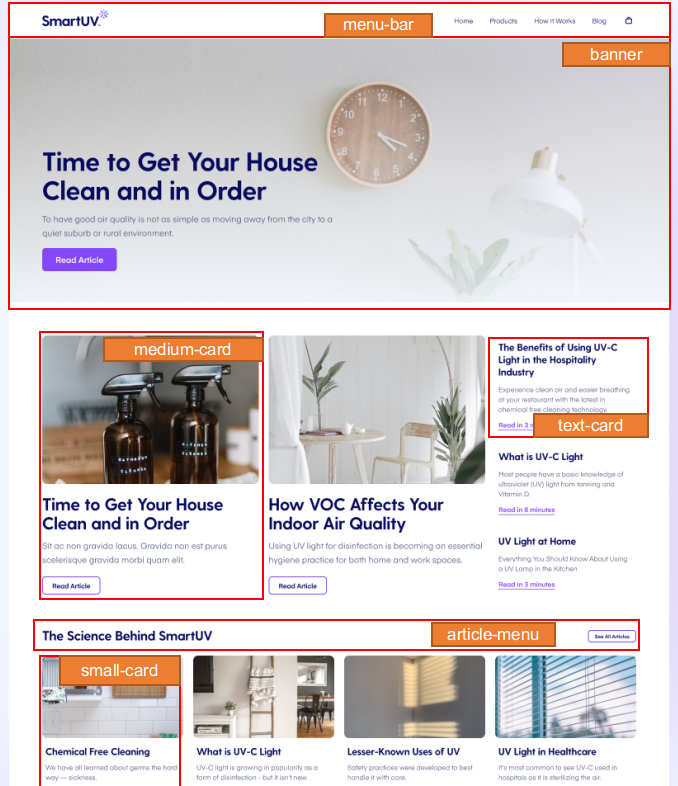
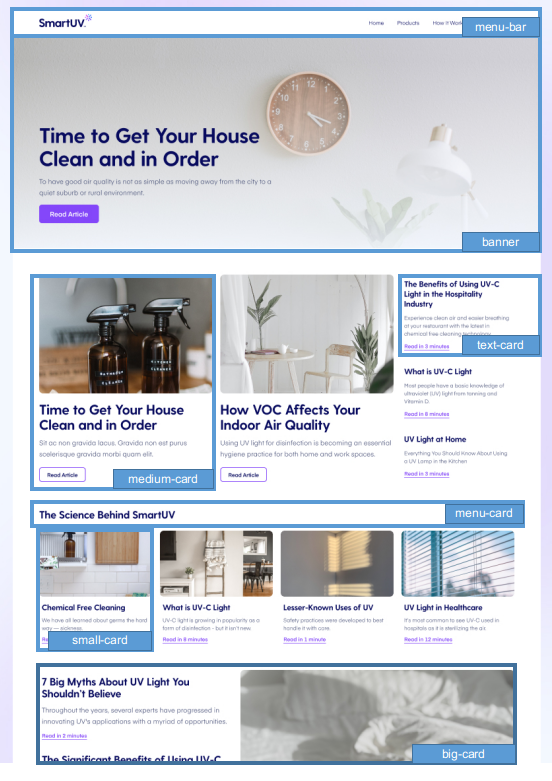
feat: add components

diff --git a/src/app/app.module.ts b/src/app/app.module.ts
@@ -3,10 +3,24 @@ import { BrowserModule } from '@angular/platform-browser';
 
 import { AppRoutingModule } from './app-routing.module';
 import { AppComponent } from './app.component';
+import { MenuBarComponent } from './components/menu-bar/menu-bar.component';
+import { BannerComponent } from './components/banner/banner.component';
+import { MediumCardComponent } from './components/medium-card/medium-card.component';
+import { TextCardComponent } from './components/text-card/text-card.component';
+import { SmallCardComponent } from './components/small-card/small-card.component';
+import { BigCardComponent } from './components/big-card/big-card.component';
+import { MenuCardComponent } from './components/menu-card/menu-card.component';
 
 @NgModule({
   declarations: [
-    AppComponent
+    AppComponent,
+    MenuBarComponent,
+    BannerComponent,
+    MediumCardComponent,
+    TextCardComponent,
+    SmallCardComponent,
+    BigCardComponent,
+    MenuCardComponent
   ],
   imports: [
     BrowserModule,

diff --git a/src/app/components/medium-card/medium-card.component.ts b/src/app/components/medium-card/medium-card.component.ts
@@ -1,0 +1,15 @@
+import { Component, OnInit } from '@angular/core';
+
+@Component({
+  selector: 'app-medium-card',
+  templateUrl: './medium-card.component.html',
+  styleUrls: ['./medium-card.component.css']
+})
+export class MediumCardComponent implements OnInit {
+
+  constructor() { }
+
+  ngOnInit(): void {
+  }
+
+}

diff --git a/src/app/components/small-card/small-card.component.ts b/src/app/components/small-card/small-card.component.ts
@@ -1,0 +1,15 @@
+import { Component, OnInit } from '@angular/core';
+
+@Component({
+  selector: 'app-small-card',
+  templateUrl: './small-card.component.html',
+  styleUrls: ['./small-card.component.css']
+})
+export class SmallCardComponent implements OnInit {
+
+  constructor() { }
+
+  ngOnInit(): void {
+  }
+
+}

diff --git a/src/app/components/menu-card/menu-card.component.ts b/src/app/components/menu-card/menu-card.component.ts
@@ -1,0 +1,15 @@
+import { Component, OnInit } from '@angular/core';
+
+@Component({
+  selector: 'app-menu-card',
+  templateUrl: './menu-card.component.html',
+  styleUrls: ['./menu-card.component.css']
+})
+export class MenuCardComponent implements OnInit {
+
+  constructor() { }
+
+  ngOnInit(): void {
+  }
+
+}

diff --git a/src/app/components/text-card/text-card.component.ts b/src/app/components/text-card/text-card.component.ts
@@ -1,0 +1,15 @@
+import { Component, OnInit } from '@angular/core';
+
+@Component({
+  selector: 'app-text-card',
+  templateUrl: './text-card.component.html',
+  styleUrls: ['./text-card.component.css']
+})
+export class TextCardComponent implements OnInit {
+
+  constructor() { }
+
+  ngOnInit(): void {
+  }
+
+}

diff --git a/src/app/components/big-card/big-card.component.ts b/src/app/components/big-card/big-card.component.ts
@@ -1,0 +1,15 @@
+import { Component, OnInit } from '@angular/core';
+
+@Component({
+  selector: 'app-big-card',
+  templateUrl: './big-card.component.html',
+  styleUrls: ['./big-card.component.css']
+})
+export class BigCardComponent implements OnInit {
+
+  constructor() { }
+
+  ngOnInit(): void {
+  }
+
+}

diff --git a/src/app/components/menu-bar/menu-bar.component.ts b/src/app/components/menu-bar/menu-bar.component.ts
@@ -1,0 +1,15 @@
+import { Component, OnInit } from '@angular/core';
+
+@Component({
+  selector: 'app-menu-bar',
+  templateUrl: './menu-bar.component.html',
+  styleUrls: ['./menu-bar.component.css']
+})
+export class MenuBarComponent implements OnInit {
+
+  constructor() { }
+
+  ngOnInit(): void {
+  }
+
+}

diff --git a/src/app/components/banner/banner.component.ts b/src/app/components/banner/banner.component.ts
@@ -1,0 +1,15 @@
+import { Component, OnInit } from '@angular/core';
+
+@Component({
+  selector: 'app-banner',
+  templateUrl: './banner.component.html',
+  styleUrls: ['./banner.component.css']
+})
+export class BannerComponent implements OnInit {
+
+  constructor() { }
+
+  ngOnInit(): void {
+  }
+
+}

diff --git a/src/app/app.component.css b/src/app/app.component.css
@@ -1,0 +1,10 @@
+*{
+  /* Zerando configurações de margin, padding e tamanho da caixa para evitar problemas dependendo do navegador */
+  margin: 0;
+  padding: 0;
+  box-sizing: border-box;
+
+  /* Definindo cor de fundo */
+  background-color: #ffffff;
+
+}

diff --git a/src/app/components/medium-card/medium-card.component.html b/src/app/components/medium-card/medium-card.component.html
@@ -1,0 +1,1 @@
+<p>medium-card works!</p>

diff --git a/src/app/components/small-card/small-card.component.html b/src/app/components/small-card/small-card.component.html
@@ -1,0 +1,1 @@
+<p>small-card works!</p>

diff --git a/src/app/components/menu-card/menu-card.component.html b/src/app/components/menu-card/menu-card.component.html
@@ -1,0 +1,1 @@
+<p>menu-card works!</p>
